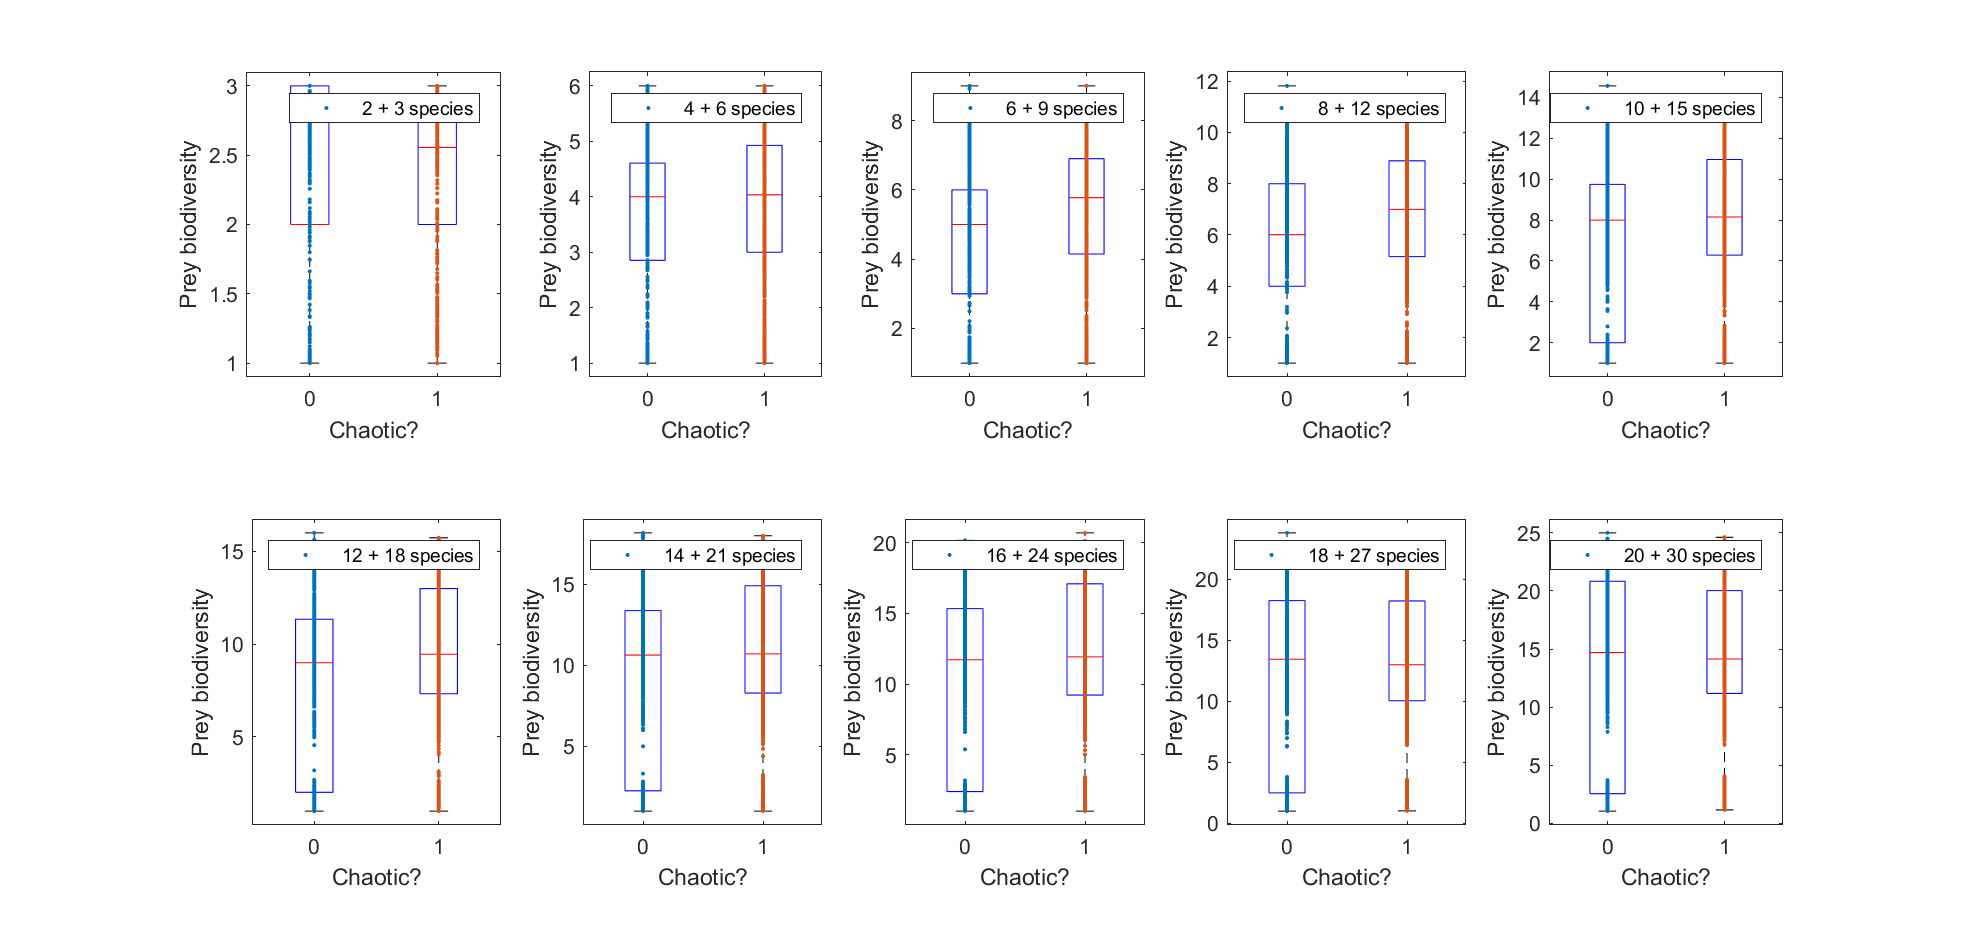
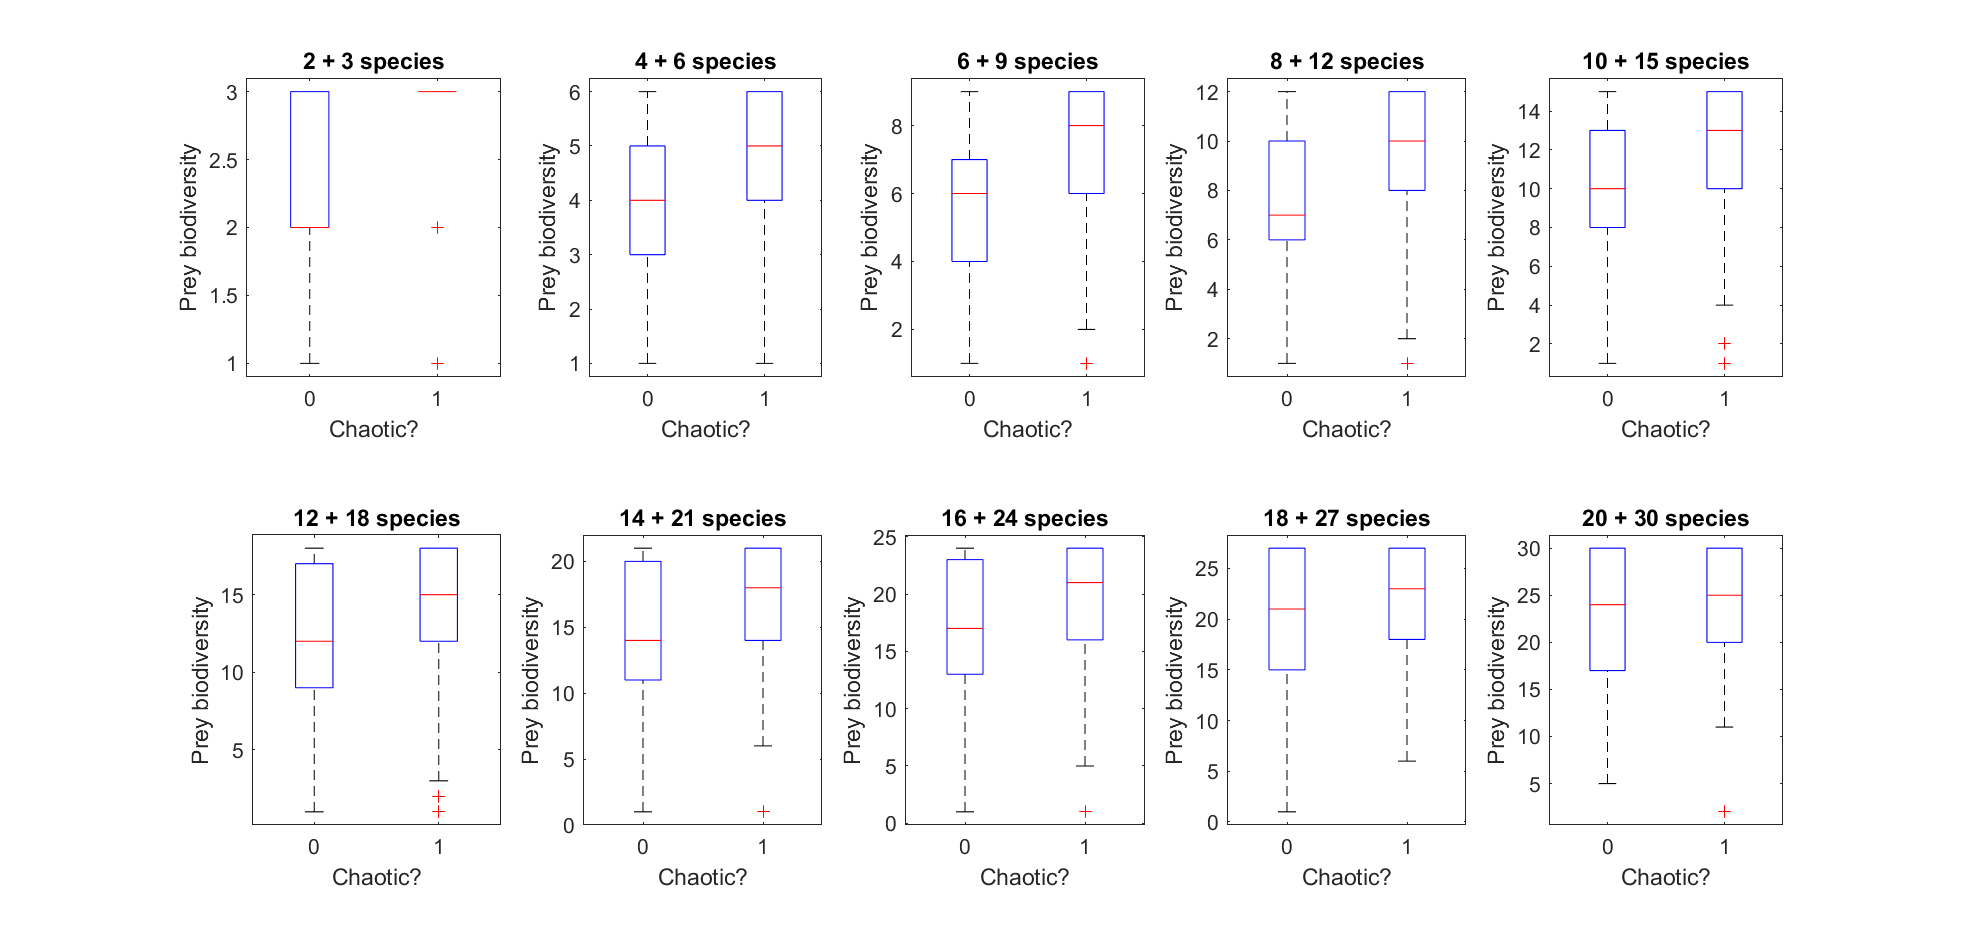
Improved figures

diff --git a/paper/tex/07-appendix.tex b/paper/tex/07-appendix.tex
@@ -324,7 +324,7 @@ For each simulation, a biodiversity index was estimated as the number of prey sp
 	\begin{center}
 		\includegraphics[width=1\columnwidth]{biod_split_by_chaos.png}
 	\end{center}
-	\caption{Each set of simulated ecosystems was grouped by competition parameter $\epsilon$ and then classified as chaotic (empty points) or regular (filled points). The average prey biodiversity of these subgroups is plotted here vs. the competition parameter. Cases where the ratio chaotic-regular was outside the range 20 \% - 80 \% are marked in blue.}
+	\caption{Average prey biodiversity vs. competition parameter. Each panel shows a food network of a different size. For each value of the competition parameter, 200 randomly drawn ecosystems were simulated. The dashed line shows the average number of prey species of these 200 simulations. The white circles represent the average prey biodiversity of those simulations who had chaotic dynamics, the black circles represent the same for non-chaotic dynamics. The relative area of the white to the black circles represents the ratio of chaotic to regular dynamics.}
 	\label{fig:BiodSplitByChaos}
 \end{figure}
 

diff --git a/io/figs_for_paper.m b/io/figs_for_paper.m
@@ -72,6 +72,7 @@ for i = 1:NAll
     
     subplot(2, 1, 2);
     createFigures(resultsArrayLight, 'biodsplitbychaos');
+    legend({'With regular dynamics', 'With chaotic dynamics', 'Weighted average'});
     
     set(fig_conclusions_temp, 'Units', 'Normalized', 'OuterPosition', [0, 0.04, 1, 0.96]);
     
@@ -255,6 +256,7 @@ for i = 1:numel(allFiles)
     createFigures(allFiles{i}, 'biodsplitbychaos');
     title(allTitles{i});
 end
+legend({'With regular dynamics', 'With chaotic dynamics', 'Weighted average'}, 'Location', 'southeast');
 
 set(fig_biodsplitbychaos, 'Units', 'Normalized', 'OuterPosition', [0, 0.04, 1, 0.96]);
 saveas(fig_biodsplitbychaos, '..\paper\img\biod_split_by_chaos.png');

diff --git a/auxs/createFigures.m b/auxs/createFigures.m
@@ -390,8 +390,6 @@ switch options
         ylabel('Biodiversity');
         xlim([-1 1]);
         
-        legend({'With regular dynamics', 'With chaotic dynamics', 'Weighted average'});
-        
     case 'biodsplitbychaosdiff'
         competition_pars = resultsAsMatrix(resultsArray, 'competition_par');
         nprey = resultsArray{1,1}.dims(1);
